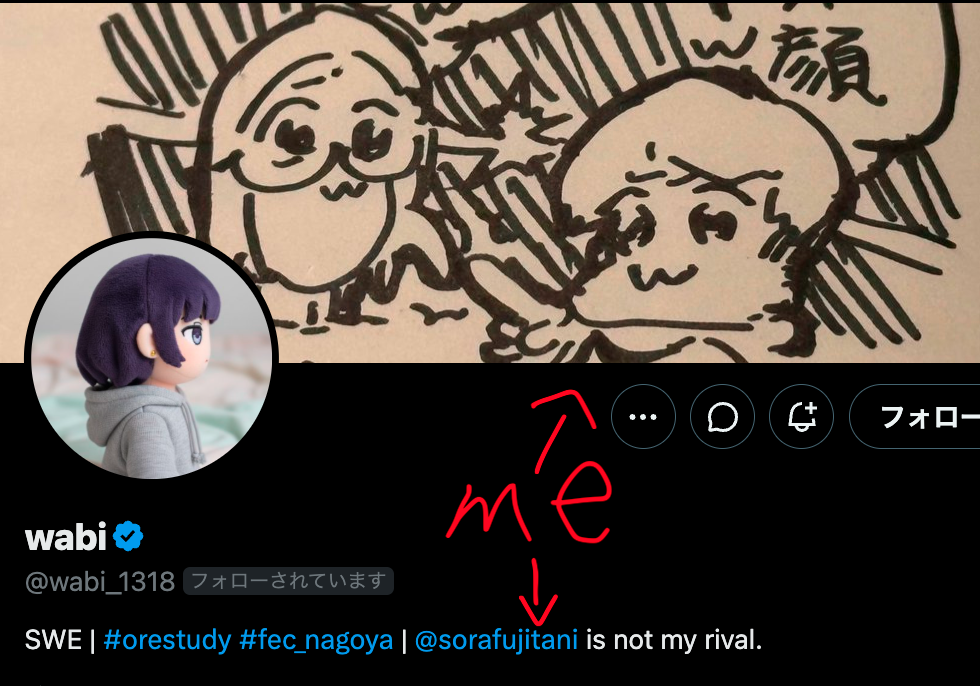
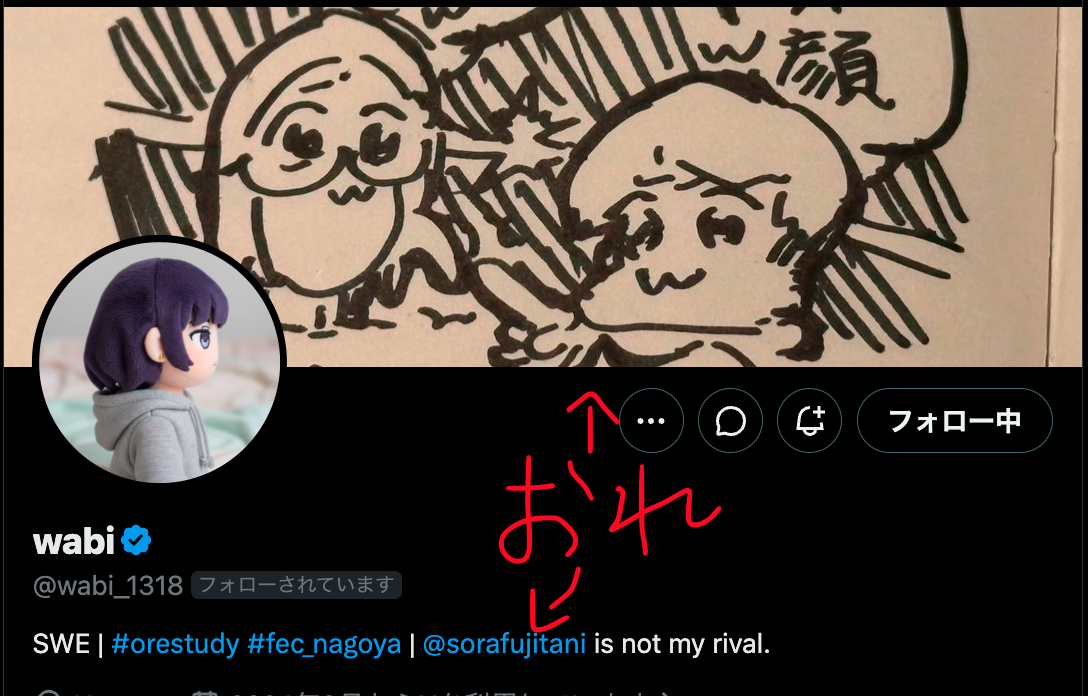
Update presentation, fix PDF colors, and link published slides

diff --git a/components/CoverSlide.vue b/components/CoverSlide.vue
@@ -1,6 +1,9 @@
 <script setup lang="ts">
+import { useNav } from '@slidev/client'
 import GradientHeading from './GradientHeading.vue'
 import SocialLinks from './SocialLinks.vue'
+
+const { isPrintMode } = useNav()
 
 interface Props {
   title: string
@@ -32,6 +35,7 @@ const props = withDefaults(defineProps<Props>(), {
     :class="[
       background === 'cyanTop' ? 'cover-cyan-top' : 'cover-plain',
       compact ? 'cover-compact' : '',
+      isPrintMode ? 'cover-print' : '',
     ]"
   >
     <div class="cover-content">
@@ -90,6 +94,17 @@ const props = withDefaults(defineProps<Props>(), {
       var(--color-bg) 100%
     ) !important;
 }
+
+/* Slidevのexportはscreen mediaを使うため、isPrintModeで切り替える。 */
+.slidev-page:has(.cover-slide.cover-cyan-top.cover-print) {
+  background: linear-gradient(
+    180deg,
+    rgb(178 234 241) 0%,
+    rgb(224 246 250) 28%,
+    rgb(244 245 247) 58%,
+    rgb(244 245 247) 100%
+  ) !important;
+}
 </style>
 
 <style scoped>
@@ -109,7 +124,7 @@ const props = withDefaults(defineProps<Props>(), {
 
 .cover-title {
   margin-bottom: 0;
-  font-size: clamp(2.6rem, 5.4vw, 3.6rem) !important;
+  font-size: 3rem !important;
   font-weight: 800;
   line-height: 1.16;
   letter-spacing: -0.02em;

diff --git a/components/GradientHeading.vue b/components/GradientHeading.vue
@@ -1,4 +1,8 @@
 <script setup lang="ts">
+import { useNav } from '@slidev/client'
+
+const { isPrintMode } = useNav()
+
 interface Props {
   tag?: 'h1' | 'h2' | 'h3'
   animated?: boolean
@@ -14,12 +18,18 @@ const props = withDefaults(defineProps<Props>(), {
   <component
     :is="tag"
     class="gradient-heading"
-    :class="{ 'animated-shadow': animated }"
+    :class="{ 'animated-shadow': animated, 'gradient-heading-print': isPrintMode }"
   >
     <slot />
   </component>
 </template>
 
 <style scoped>
-/* スタイルは既に style.css に定義されているため、追加の定義は不要 */
+/* PDFビューアーによる文字のマスク描画の差を避ける。 */
+.gradient-heading-print {
+  background: none !important;
+  color: rgb(0 155 206);
+  -webkit-text-fill-color: currentColor;
+  animation: none;
+}
 </style>

diff --git a/slides.md b/slides.md
@@ -19,7 +19,7 @@ fonts:
 ---
 
 <CoverSlide
-  title="code formatter maintenability and next role?"
+  title="<span style='white-space: nowrap'>code formatter maintenability</span><br>and next role"
   subtitle=""
   event="俺の勉強会#8"
   author="fujitani sora"
@@ -63,7 +63,7 @@ layout: default
 class: text-center
 ---
 
-### Linter, Formatterをよく開発している
+### linter, formatterをよく開発している
 
 <CenteredImage
   src="/images/github-contributions.png"
@@ -71,7 +71,7 @@ class: text-center
   width="640px"
 />
 
-<div class="mt-6 text-2xl font-bold" style="color: var(--color-accent)">Code Formatterって今のままでいいのか？と思っている</div>
+<div class="mt-6 text-2xl font-bold" style="color: var(--color-accent)">code formatterって今のままでいいのか？と思っている</div>
 
 ---
 
@@ -103,7 +103,7 @@ class: text-left
 title: ツールの価値はメンテナンスコストに見合うかどうか
 ---
 
-- Code Formatterは、<br><strong style="color: var(--color-accent)">メンテナンスコストが高い</strong>ツールだと考えている
+- code formatterは、<br><strong style="color: var(--color-accent)">メンテナンスコストが高い</strong>ツールだと考えている
 - コードを見ることが減っていくであろうこれから、<br><strong style="color: var(--color-accent)">ツールの価値はメンテナンスコストに見合うかどうか</strong>
 
 <style scoped>
@@ -125,7 +125,7 @@ li {
 **コードを書き換えるリスクのあるツール。**
 
 - 不具合によって、ユーザーのコードを暗黙的に壊し得る。
-- Git hookで自動実行されると、<br>不具合による変更に気づきにくいこともある。
+- git hookで自動実行されると、<br>不具合による変更に気づきにくいこともある。
 
 </div>
 
@@ -171,7 +171,7 @@ li {
 | --- | --- |
 | parser | 仕様変更、モダンなparserへの移行 |
 | プログラミング言語 | 新構文の追加・変更 |
-| Framework | latest、場合によってはnightlyへの対応 |
+| framework | latest、場合によってはnightlyへの対応 |
 | formatter自体 | 品質、パフォーマンス、optionの改善 |
 
 </div>
@@ -265,13 +265,13 @@ newTextの文字列には改行とタブも含まれている。
 
 <div class="cost-question">
 
-<p class="comparison">メンテナンスコスト &gt; Formatterの仕事量</p>
+<p class="comparison">メンテナンスコスト &gt; formatterの仕事量</p>
 
 この状態に近づいているかもしれない
 
 </div>
 
-- Formatterが不要になるわけではないと思う
+- formatterが不要になるわけではないと思う
 - LLMだけでは、人間が意識しないようにするための<br>「信頼」をカバーしきれないだろう
 - ただ、ツールを取り巻く前提が変化するごとに、<br>その価値も問われ直す必要がある
 - AIも使いつつ、この前提を疑える人が、<br>今後のツールチェーンを作っていく人になるのかも

diff --git a/design_system/components.md b/design_system/components.md
@@ -53,6 +53,8 @@
 
 グラデーション効果を持つ見出しコンポーネント。
 
+PDF出力時は水色の単色文字に切り替え、文字のマスク描画による表示崩れを避けます。
+
 #### Props
 
 | Prop | Type | Default | 説明 |
@@ -185,20 +187,20 @@ SNS リンク集を表示するコンポーネント。
 
 | Prop | Type | Default | 説明 |
 |------|------|---------|------|
-| title | String | '' | タイトル |
+| title | String | '' | タイトル。`<br>` で改行位置を指定可能 |
 | subtitle | String | '' | サブタイトル |
 | event | String | '' | イベント名 |
 | author | String | '' | 著者名 |
 | social | Object | {} | SNS情報 { github, x, twitter, linkedin, website } |
 | gradient | Boolean | true | グラデーション見出しを使用 |
-| background | 'plain' \| 'cyanTop' | 'cyanTop' | 表紙背景。`cyanTop` は PDF export 向けに rgb 透過を使用 |
+| background | 'plain' \| 'cyanTop' | 'cyanTop' | 表紙背景。PDF出力時は不透明なRGB線形グラデーションを使用 |
 | compact | Boolean | false | 長い LT タイトル向けにタイトルをさらに控えめにする |
 
 #### デザインの特徴
 
-- **タイトル**: 長い LT タイトル前提で控えめに表示（`clamp(1.4rem, 2.7vw, 2rem)`）
+- **タイトル**: 通常は `3rem`。Slidevのスライド全体の拡大縮小に合わせ、画面とPDFで文字サイズをそろえる
 - **イベント名/著者名**: `event / author` の順で中央下に配置
-- **背景**: `cyanTop` では上部に水色グラデーションを表示。PDF export での変色を避けるため `rgb(... / alpha)` を使用
+- **背景**: `cyanTop` では上部に水色グラデーションを表示。PDF出力時は不透明なRGB線形グラデーションに切り替え、PDF.jsの未対応描画によるピンクへの変色を避ける
 - **SNSアイコン**: 右下に自動配置
 
 #### 使用例

diff --git a/slidev_context/08-exporting.md b/slidev_context/08-exporting.md
@@ -150,10 +150,13 @@ PDF export 後は、最低限以下を確認します。
 
 ### Color Stability
 
-PDF export で色が変わる背景には `oklch(... / alpha)` を避けます。
-特に cover の透過グラデーションは `rgb(... / alpha)` の方が安定しやすいです。
+RGB指定でも、透過を重ねたグラデーションはPDFの `ShadingType: 1` として出力されることがあります。これに未対応のPDF.jsではピンクに置き換わり、Popplerでは正常に表示されるため、Popplerだけの確認では見落とします。
 
-`CoverSlide background="cyanTop"` は、この前提で実装されています。
+`CoverSlide background="cyanTop"` は、Slidev の `useNav().isPrintMode` で不透明なRGB線形グラデーションに切り替えます。`GradientHeading` も出力時は水色の単色にし、PDFビューアーによる文字のマスク描画の差を避けます。
+
+Slidev 52.8.0 のexportは `?print=true` を付けて開き、`media: "screen"` を指定します。`@media print` だけでは切り替わらないため、コンポーネントに `isPrintMode` に応じたクラスを付けています。
+
+背景やグラデーションを変更した場合は、PDF.jsとPopplerで表紙を確認します。macOS向けにはCore Graphicsでも文字が欠けないか確認してください。
 
 ### Warning and Failure
 

diff --git a/design_system/tokens.md b/design_system/tokens.md
@@ -174,7 +174,7 @@ Tailwind CSS の標準スケールを使用:
 
 ### 表紙背景
 
-`CoverSlide background="cyanTop"` は、PDF export での色変化を避けるため `oklch(... / alpha)` ではなく `rgb(... / alpha)` の透過グラデーションを使います。
+`CoverSlide background="cyanTop"` は、画面では `rgb(... / alpha)` の透過グラデーションを使います。
 
 ```css
 background:
@@ -189,6 +189,19 @@ background:
     var(--color-bg) 100%
   );
 ```
+
+PDF出力時は Slidev の `useNav().isPrintMode` で、透過を重ねないRGB線形グラデーションに切り替えます。画面用の描画は、一部バージョンのPDF.jsが未対応の `ShadingType: 1` として出力されることがあるためです。
+
+```css
+background: linear-gradient(180deg,
+  rgb(178 234 241) 0%,
+  rgb(224 246 250) 28%,
+  rgb(244 245 247) 58%,
+  rgb(244 245 247) 100%
+);
+```
+
+`GradientHeading` もPDF出力時は文字のグラデーションを `rgb(0 155 206)` の単色に切り替え、文字のマスク描画への依存を避けます。
 
 ### よく使うスペーシングパターン
 

diff --git a/README.md b/README.md
@@ -1,5 +1,7 @@
 # Slidev Common Template
 
+[公開スライド: code formatter maintenability and next role](https://sorafujitani.github.io/slidev-code-formatter-maintenability-and-next-role/)
+
 > デザインシステムを備えた、再利用可能なSlidevプレゼンテーションテンプレート
 
 ## 📖 概要
